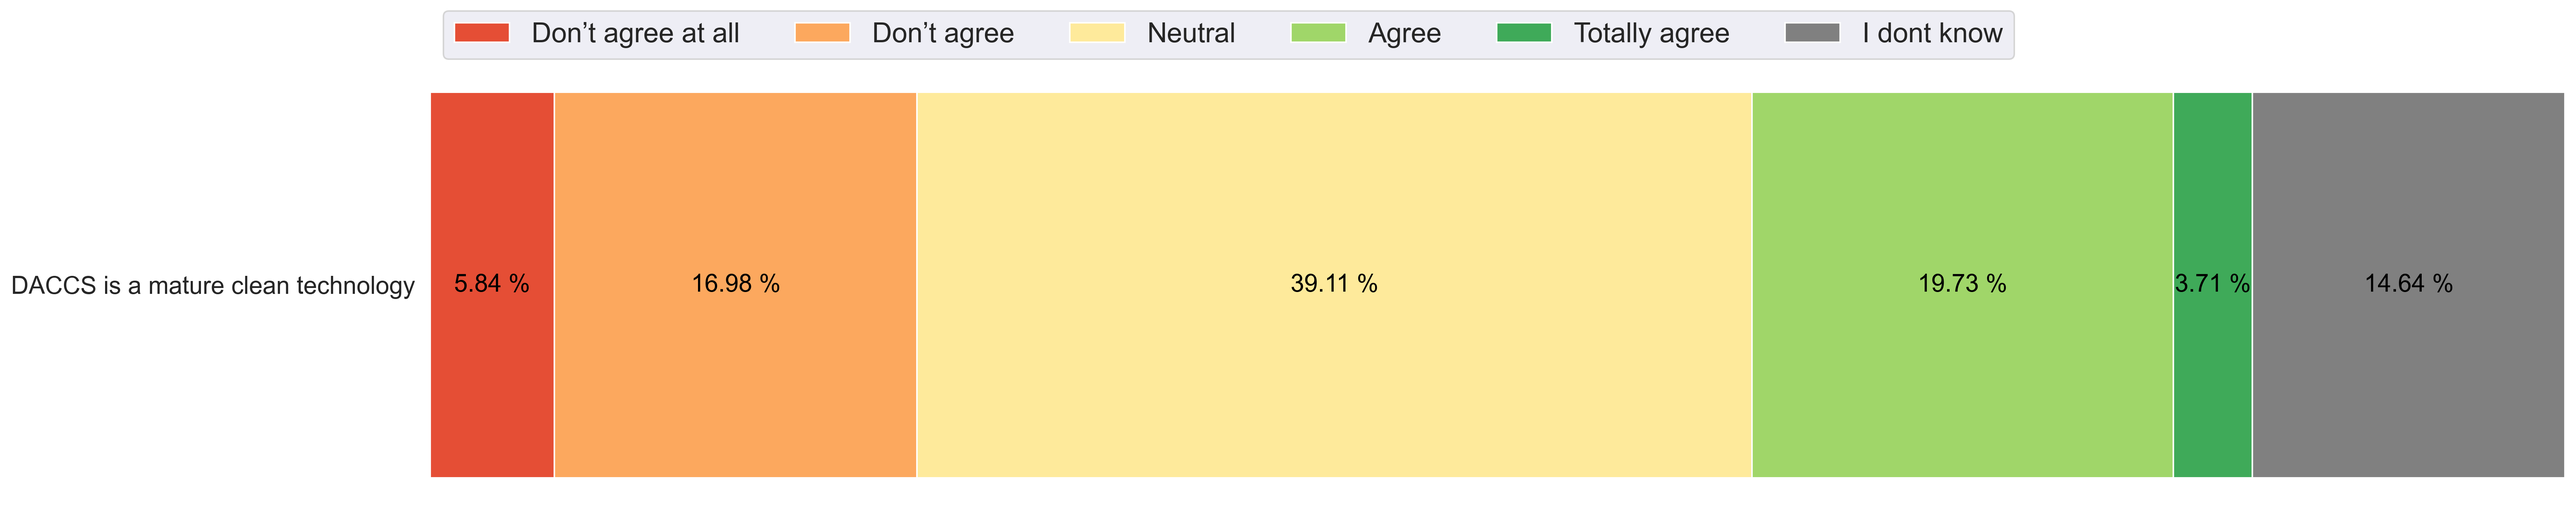
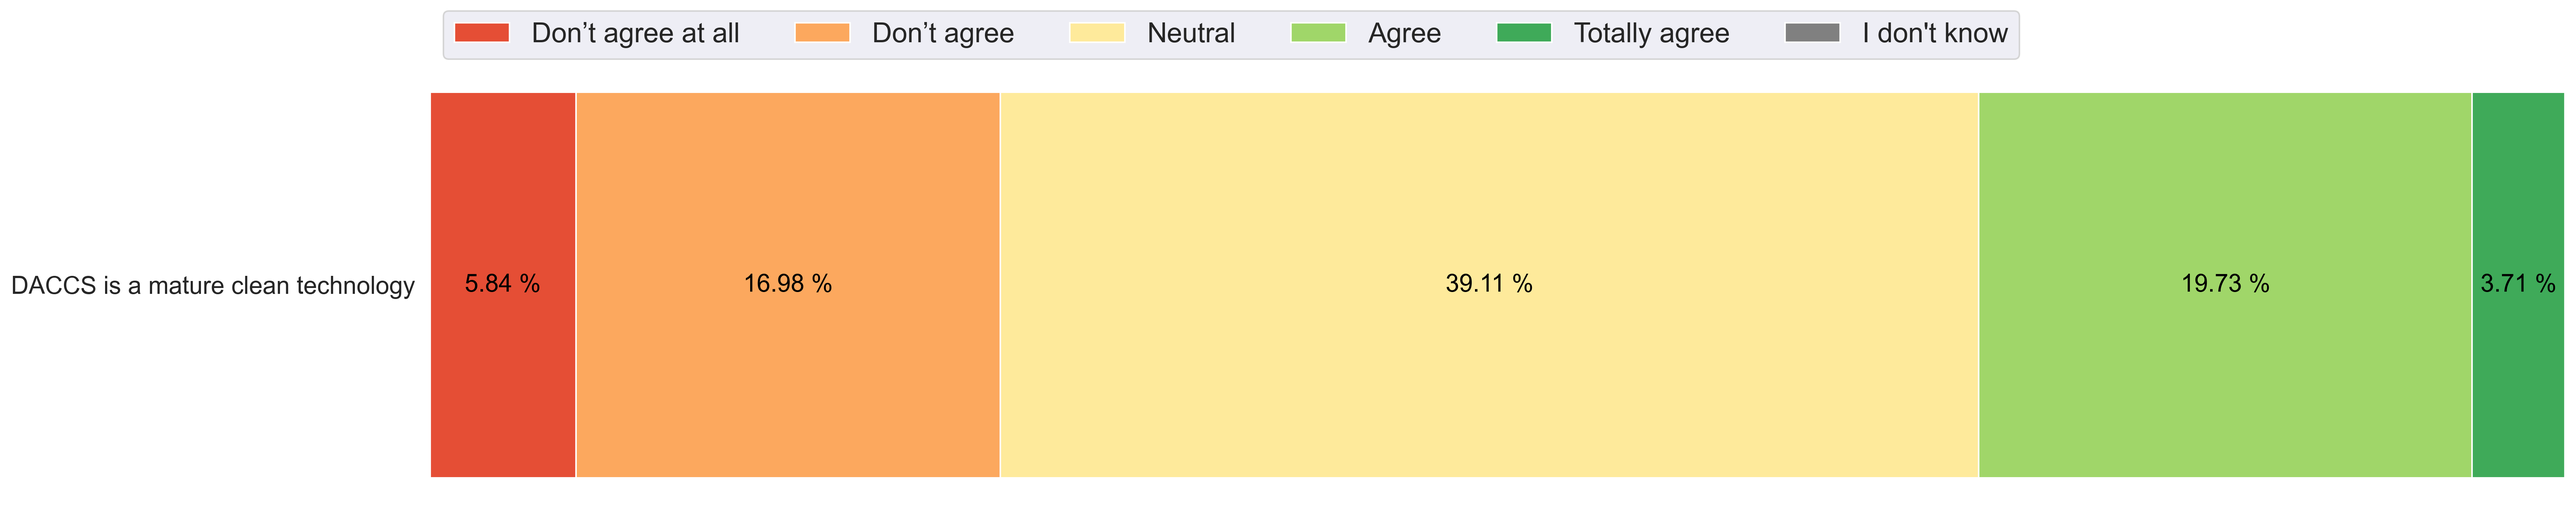
small translation fixes

diff --git a/dacstore/config.py b/dacstore/config.py
@@ -387,14 +387,14 @@ translation_columns = {
     "Der Klimawandel findet tatsächlich statt.": "Climate change is really happening",
     "Der Klimawandel ist ein ernstes Problem.": "Climate change is a serious problem",
     "Menschliche Aktivitäten sind die Hauptursache des Klimawandels.": "Human activities are the main cause of climate change",
-    "Wir alle sollten uns bemühen, unseren CO2-Ausstoß zu reduzieren.": "We should all make an effort to reduce or CO2 emissions",
+    "Wir alle sollten uns bemühen, unseren CO2-Ausstoß zu reduzieren.": "We should all make an effort to reduce our CO2 emissions",
     "Haben Sie schon von Technologien zur Entnahme von Kohlendioxid (CO2) aus der Luft (auf Englisch Direct Air Capture (DAC)) gehört?": "Have you heard about Direct Air Capture and Storage (DACCS) technologies?",
-    "Wie gut sind ihre Kenntnisse dieser Technologien?": "How would you rate your knowledge of DACCS? ",
+    "Wie gut sind ihre Kenntnisse dieser Technologien?": "How would you rate your knowledge of DACCS?",
     "Haben Sie schon von Kohlendioxid (CO2)-Speicherung gehört?": "Have you heard about CO2 storage?",
     "Wie gut sind ihre Kenntnisse der CO2-Speicherungstechnologien?": "How would you rate your knowledge of CO2 Storage?",
     "Direct Air Capture (DAC)": "Initial DACCS Support",
     "CO2-Speicherung": "Initial Storage Support",
-    "Welche Hauptemotion empfinden Sie gegenüber DAC-Technologien?": "What primary emotion do you feel towards DACCS technologies?",
+    "Welche Hauptemotion empfinden Sie gegenüber DAC-Technologien?": "What primary emotion do you feel regarding DACCS technologies?",
     "DAC ist eine ausgereifte saubere Technologie.": "DACCS is a mature clean technology",
     "Menschen sollten die Natur nicht auf diese Weise manipulieren.": "Humans should not be tampering with nature in this way",
     "Ich denke nicht, dass das Einbringen von CO2 in den Boden eine gute Idee ist.": "I don’t think that injecting CO2 into the ground is a good idea",
@@ -403,7 +403,7 @@ translation_columns = {
     "CO2-Speicherung im Boden": "CO2 storage underground",
     "CO2-Speicherung im Meeresboden": "CO2 storage in the seabed",
     "LKW": "Truck",
-    "Eisenbahn": "Railroad",
+    "Eisenbahn": "Railway",
     "Pipeline (Rohrleitungstransport)": "Pipelines",
     "Tanker (Schiff)": "Tanker",
     "Mit keiner": "With none",
@@ -414,16 +414,16 @@ translation_columns = {
     "Die Implementierung von DAC als Teil einer Gesamtstrategie kann Deutschland dabei helfen, seine Klimaziele zu erreichen und den Klimawandel auf 1,5 °C zu begrenzen.": "Including DACCS as a part of an overall strategy can help Germany achieve its climate goals and limit climate change to 1.5°C",
     "DAC ist eine effiziente Technologie zur Bekämpfung des Klimawandels.": "DACCS is an efficient technology to fight climate change",
     "DAC ist sicher.": "DACCS is a safe technology",
-    "CO2-Speicherung ist sicher.": "CO2-Storage is a safe technology",
-    "CO2-Speicherung könnte Erdbeben verursachen.": "CO2-Storage could cause earthquakes",
-    "CO2-Speicherung könnte Explosionen verursachen.": "CO2-Storage could cause explosions",
-    "CO2-Speicherung könnte CO2-Leckagen verursachen.": "CO2-Storage could cause toxic leaks",
+    "CO2-Speicherung ist sicher.": "CO2 storage is a safe technology",
+    "CO2-Speicherung könnte Erdbeben verursachen.": "CO2 storage could cause earthquakes",
+    "CO2-Speicherung könnte Explosionen verursachen.": "CO2 storage could cause explosions",
+    "CO2-Speicherung könnte CO2-Leckagen verursachen.": "CO2 storage could cause CO2 leaks",
     "Politik": "Politicians",
     "Industrie": "Industry",
     "Wissenschaft": "Science",
     "Vereinte Nationen (UNO)": "United Nations (UN)",
     "Europäische Union": "European Union",
-    "Nichtregierungs- und Umweltschutzorganisationen": "Environmental Protection Organizations and NGOs",
+    "Nichtregierungs- und Umweltschutzorganisationen": "NGOs and environmental organizations",
     "Medien": "Media",
     "Direct Air Capture (DAC).1": "Final DACCS Support",
     "CO2-Speicherung.1": "Final Storage Support",
@@ -467,7 +467,7 @@ translation_answers = {
     "Ausbildung": "Apprenticeship",
     "Abitur/(Fach-)Hochschulreife": "High school",
     "Bachelor (BSc.)": "Bachelor (BSc.)",
-    "Master (MSc.) oder Diplom": "Masters (MSc.)",
+    "Master (MSc.) oder Diplom": "Master’s (MSc.)",
     "Promotion (Dr.) oder Habilitation (Prof.)": "PhD or Professorship",
     "Studierende": "Student",
     "Angestellt": "Employee",
@@ -482,16 +482,16 @@ translation_answers = {
     "Bremen": "Bremen",
     "Hamburg": "Hamburg",
     "Hessen": "Hesse",
-    "Mecklenburg-Vorpommern": "Mecklenburg- Western Pomerania",
+    "Mecklenburg-Vorpommern": "Mecklenburg-Western Pomerania",
     "Niedersachsen": "Lower Saxony",
     "Nordrhein-Westfalen": "North Rhine-Westphalia",
     "Rheinland-Pfalz": "Rhineland-Palatinate",
     "Saarland": "Saarland",
     "Sachsen": "Saxony",
     "Sachsen-Anhalt": "Saxony-Anhalt",
-    "Schleswig-Holstein": "Sleswick-Holsatia",
+    "Schleswig-Holstein": "Schleswig-Holstein",
     "Thüringen": "Thuringia",
-    "Ich lebe im Ausland": "I leave abroad",
+    "Ich lebe im Ausland": "I live abroad",
     "Hoffnung": "Hope",
     "Begeisterung": "Enthusiasm",
     "Glück": "Happiness",
@@ -535,8 +535,8 @@ trust_en = [
     "Low trust",
     "Neutral",
     "Moderate trust",
-    "Strongly trust",
-    "I dont know",
+    "Strong trust",
+    "I don't know",
 ]
 
 support_en = [
@@ -553,19 +553,19 @@ agreement_en = [
     "Neutral",
     "Agree",
     "Totally agree",
-    "I dont know",
+    "I don't know",
 ]
 
-distance = ["Nowhere in Germany", "100 km", "10 km", "1 km", "500 m", "I dont know"]
+distance = ["Nowhere in Germany", "100 km", "10 km", "1 km", "500 m", "I don't know"]
 
 
 gender = [
     "Male",
-    "Diverse",
     "Female",
+    "Diverse",
 ]
 
-age = ["30 - 39", "20 - 29", "40 - 49", "50 - 59", "60+"]
+age = ["18 - 19", "20 - 29", "30 - 39", "40 - 49", "50 - 59", "60+"]
 
 categories = {
     "knowledge_de": knowledge_de,

diff --git a/scripts/create-likert-plots.py b/scripts/create-likert-plots.py
@@ -530,7 +530,7 @@ def plot_transport(df, fname):
 
 
 def plot_emotion(df, fname):
-    col = "What primary emotion do you feel towards DACCS technologies?"
+    col = "What primary emotion do you feel regarding DACCS technologies?"
     data = (
         df[col]
         .value_counts()
